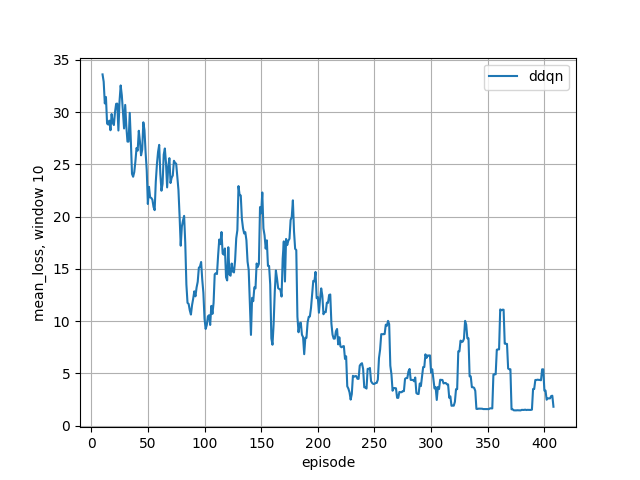
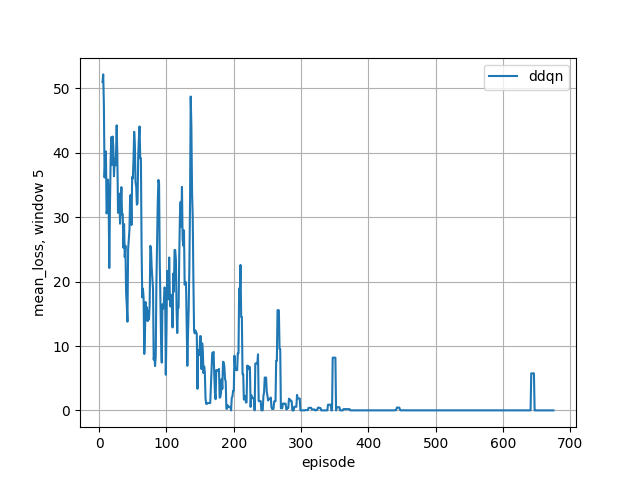
tuned reward - agent converges to optimum

diff --git a/main.py b/main.py
@@ -73,6 +73,7 @@ for ep in range(start_episode, scenario_params['n_episodes'] + 1):
     total_flops_offloaded_per_episode = []
     total_flops_on_ue_per_episode = []
     energy_credit_consumed_per_episode = []
+    split_config_per_episode = []
     # ------------------------------
     if scenario_params['split_algorithm'] == 2: # update epsilon for ddqn based on episode number
         # initialize agent
@@ -145,6 +146,7 @@ for ep in range(start_episode, scenario_params['n_episodes'] + 1):
         inference_time_per_episode.append({'time_step': k, 'inference_time': total_time})
         ue_energy_comp_per_episode.append({'time_step': k, 'ue_energy_comp': ue_energy_comp})
         ue_energy_comm_per_episode.append({'time_step': k, 'ue_energy_comm': ue_energy_comm})
+        split_config_per_episode.append({'time_step': k, 'split': split_config})
         if scenario_params['split_algorithm'] == 2:
             success_rate_per_episode.append({'time_step': k,
                                          'success_rate': (agent.agent.n_success / agent.agent.n_attempts_to_split) * 100})
@@ -178,7 +180,7 @@ for ep in range(start_episode, scenario_params['n_episodes'] + 1):
     data = {'inference_time': inference_time_per_episode, 'ue_energy_comp': ue_energy_comp_per_episode,
             'ue_energy_comm': ue_energy_comm_per_episode, 'success_rate': success_rate_per_episode,
             'y_net': total_flops_offloaded_per_episode, 'y_ue': total_flops_on_ue_per_episode,
-            'energy_credit': energy_credit_consumed_per_episode}
+            'energy_credit': energy_credit_consumed_per_episode, 'split': split_config_per_episode}
     write_logs(scenario_params, ep, data, agent)
     # --------------------------------------
     # Display variables in this episode

diff --git a/utils/logging_utils.py b/utils/logging_utils.py
@@ -20,23 +20,26 @@ def write_logs(scenario_params, episode, data, model):
     else:
         folder = 'optimum'
     # inference time
-    filename = '{}_{}'.format('inference_time', episode_count)
+    filename = 'system/{}_{}'.format('inference_time', episode_count)
     writeToCsv(data['inference_time'], filename, folder)
     # ue energy computation
-    filename = '{}_{}'.format('ue_energy_comp', episode_count)
+    filename = 'system/{}_{}'.format('ue_energy_comp', episode_count)
     writeToCsv(data['ue_energy_comp'], filename, folder)
     # ue energy communication
-    filename = '{}_{}'.format('ue_energy_comm', episode_count)
+    filename = 'system/{}_{}'.format('ue_energy_comm', episode_count)
     writeToCsv(data['ue_energy_comm'], filename, folder)
     # total flops offloaded
-    filename = '{}_{}'.format('y_net', episode_count)
+    filename = 'system/{}_{}'.format('y_net', episode_count)
     writeToCsv(data['y_net'], filename, folder)
     # total flops on ue
-    filename = '{}_{}'.format('y_ue', episode_count)
+    filename = 'system/{}_{}'.format('y_ue', episode_count)
     writeToCsv(data['y_ue'], filename, folder)
     # energy credit
-    filename = '{}_{}'.format('energy_credit', episode_count)
+    filename = 'system/{}_{}'.format('energy_credit', episode_count)
     writeToCsv(data['energy_credit'], filename, folder)
+    # split config
+    filename = 'splits/{}_{}'.format('split', episode_count)
+    writeToCsv(data['split'], filename, folder)
     if folder == 'rl/ddqn':
         # success rate
         filename = '{}_{}'.format('success_rate', episode_count)

diff --git a/postprocessing/convergence.py b/postprocessing/convergence.py
@@ -10,7 +10,7 @@ from utils.logging_utils import read_single_col_data, return_order, parse_episod
 
 
 def plot_metric(metric, df, outfile, folder):
-    window = 10
+    window = 5
     fig, ax = plt.subplots()
     roll_mean_loss = df[metric].rolling(window=window).mean()
     plt.plot(df['episode'], roll_mean_loss, label='ddqn')
@@ -47,7 +47,7 @@ def main():
 
     params = generate_scenario()
     # specify the number of episodes to be plotted
-    n_episodes = 408
+    n_episodes = 675
     order_to_convert = 100
     generate_metric(params, n_episodes, order_to_convert, 'mean_loss')
     generate_metric(params, n_episodes, order_to_convert, 'mean_reward')

diff --git a/rl/ddqn.py b/rl/ddqn.py
@@ -168,7 +168,8 @@ class DDQNAgent(nn.Module):
         #optimization = inference_time + ue_energy_comm
         optimization = (self.scenario_params['weight_inference_time'] * inference_time +
                         self.scenario_params['weight_ue_energy'] * (ue_energy_comp + ue_energy_comm))
-        reward = self.success * -optimization
+        #reward = self.success * (1 / optimization)
+        reward = math.pow(10, (1 / optimization))
         #print('reward {}'.format(reward))
         return reward
 
